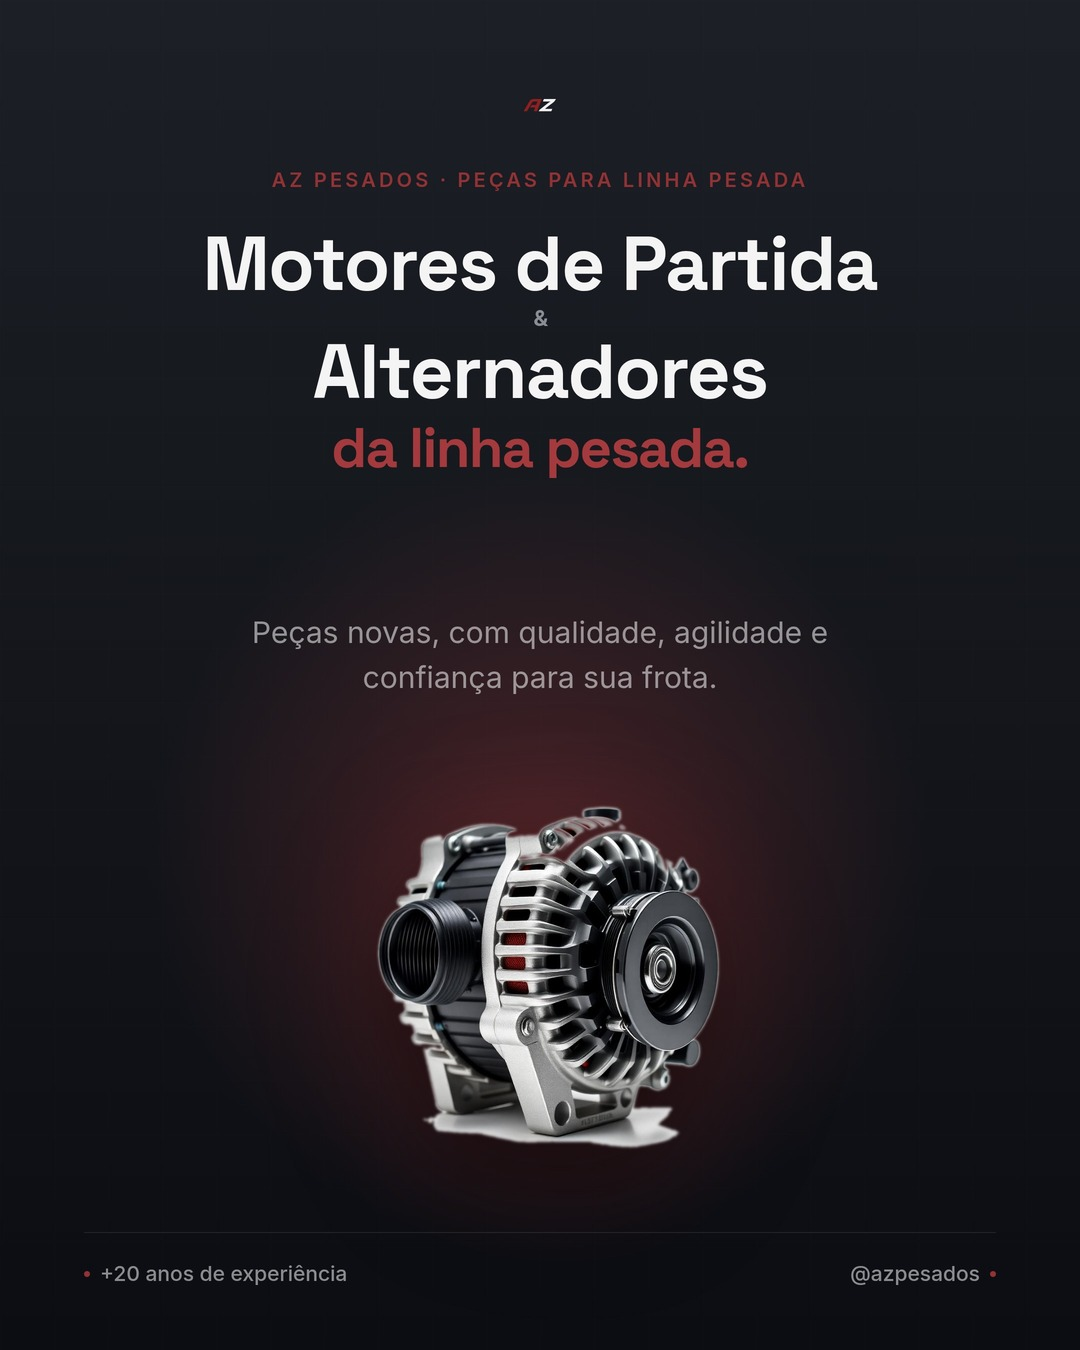
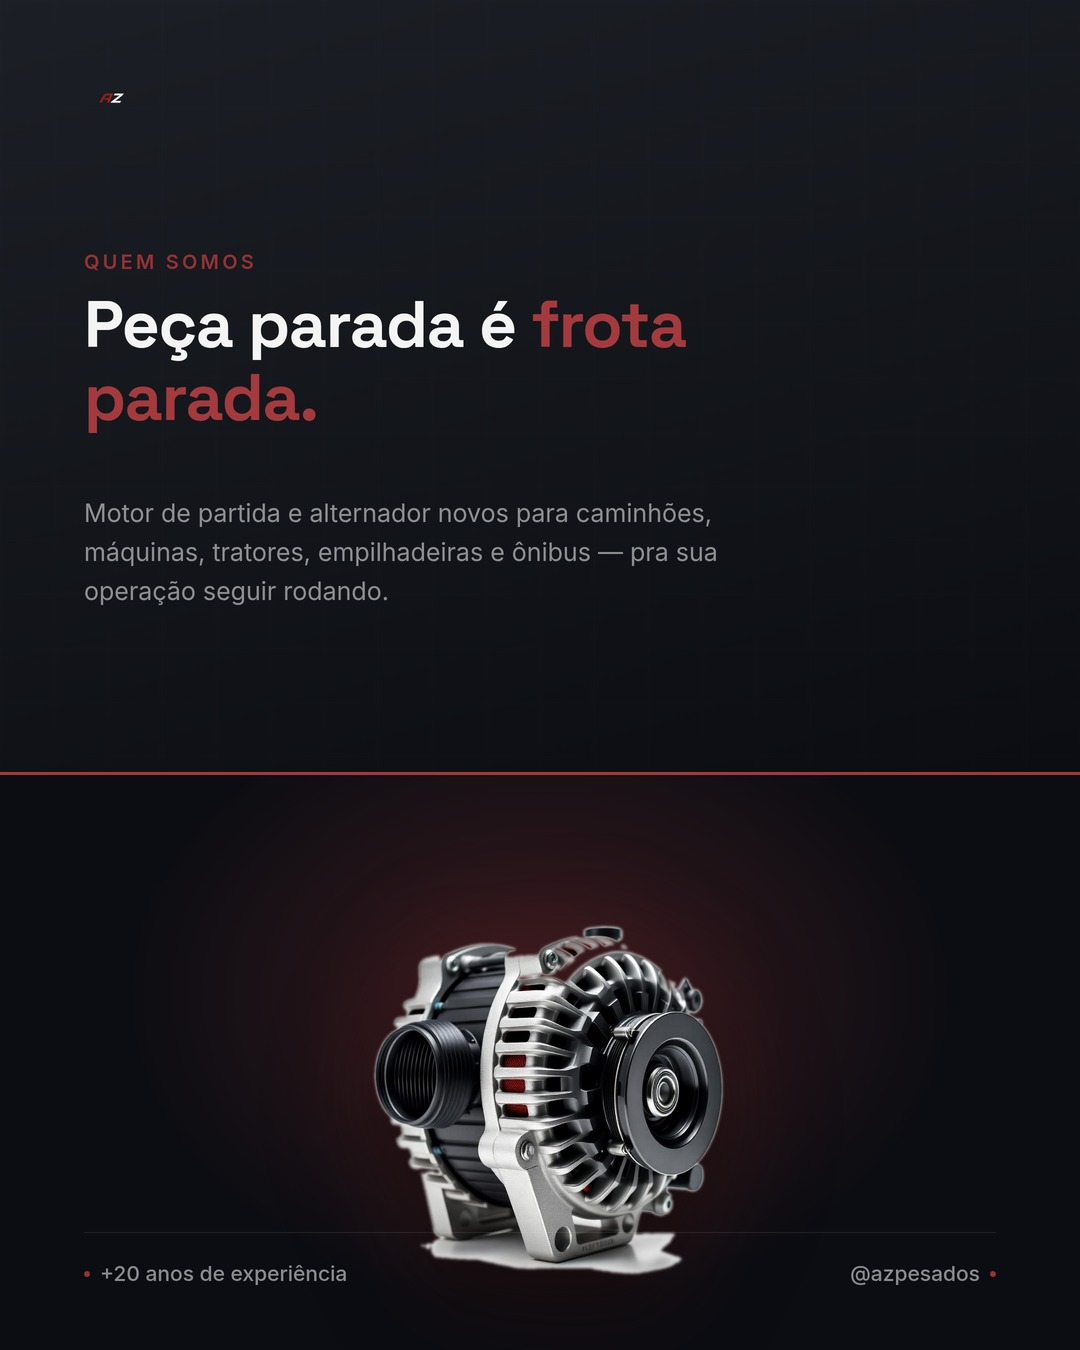
Redesenha posts 1 e 2 para não replicar layout/textos do site
Troca o hero centralizado (clone da seção Hero do site) por uma
composição própria em faixas (texto + banda de produto), e o grid de
cards de diferenciais (clone da seção Serviços) por uma lista numerada
com regras finas, no estilo do post 3. Mantém a paleta e tipografia da
marca para os posts combinarem com o site, mas com layout e frases
próprias em vez de repetir o texto do hero e a estrutura dos cards.

Claude-Session: https://claude.ai/code/session_01P4dFtbpr6ATd4oYWuebosk

diff --git a/posts/fixados/01-quem-somos.md b/posts/fixados/01-quem-somos.md
@@ -7,7 +7,7 @@
 
 ![Post Quem Somos](imagens/01-quem-somos.jpg)
 
-Arte gerada seguindo a identidade visual do site (site-az): grafite `#1B1B1B`, vermelho vinho `#933235`, tipografia Space Grotesk/Inter, foto real do alternador em destaque.
+Composição própria (faixa de texto + faixa de produto), usando a paleta e tipografia do site (grafite `#1B1B1B`, vermelho vinho `#933235`, Space Grotesk/Inter) para o post "encaixar" no feed junto do site — sem repetir o layout do hero nem o texto do site.
 
 ## Legenda
 

diff --git a/posts/fixados/02-diferenciais.md b/posts/fixados/02-diferenciais.md
@@ -7,7 +7,7 @@
 
 ![Post Nossos Diferenciais](imagens/02-diferenciais.jpg)
 
-Versão single-image com os 4 principais diferenciais em grade de cards, mesma identidade visual do site (fundo claro, como a seção de Produtos/Serviços do site).
+Versão single-image com os 4 principais diferenciais em lista numerada com regras finas (não é o grid de cards do site) — mesma paleta clara/vermelho vinho, composição própria para o Instagram.
 
 ## Legenda
 
